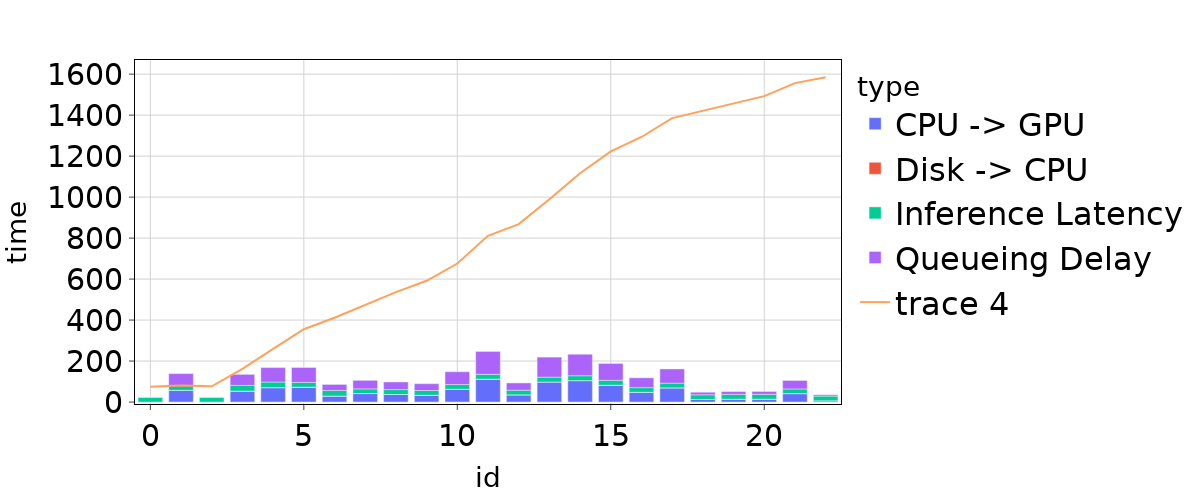
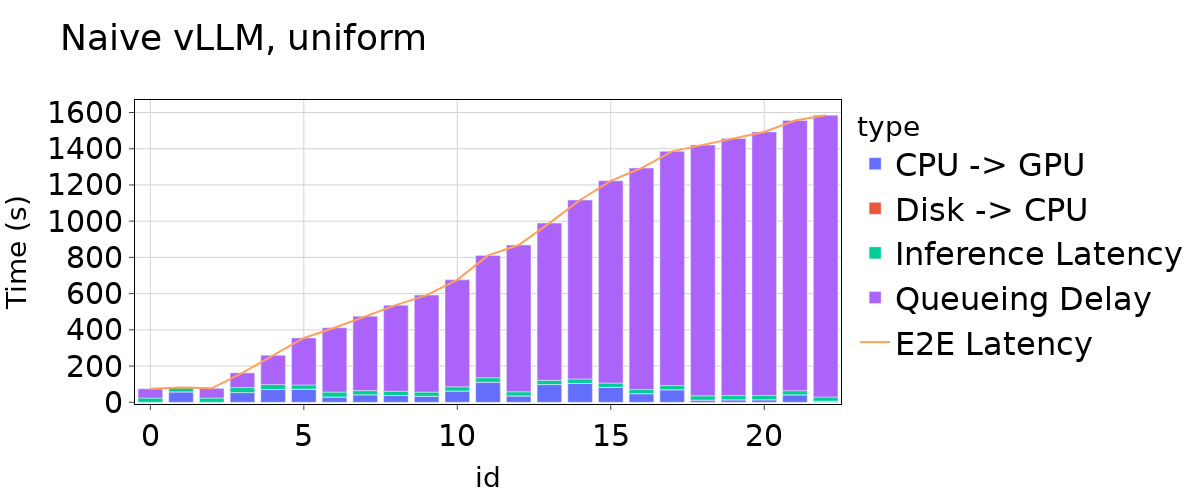
update

Changed region(s): [[0.0, 0.03, 0.9867, 0.81], [0.6475, 0.15, 0.6783, 0.18]]

diff --git a/.artifact/benchmarks/tools/trace/synthetic_generator.py b/.artifact/benchmarks/tools/trace/synthetic_generator.py
@@ -5,7 +5,7 @@ import datasets
 import numpy as np
 from loguru import logger
 from arrival import PoissonProcess
-
+from typing import Union
 import tiktoken
 enc = tiktoken.get_encoding("cl100k_base")
 
@@ -41,9 +41,11 @@ def generate_model_distribution(distribution, num_queries):
 def get_dialogs():
     trace = datasets.load_dataset("lmsys/chatbot_arena_conversations")["train"]
     all_dialogs = []
+    response_tokens = []
     for idx, item in enumerate(trace):
         all_dialogs.append(format_lmsys(item["conversation_a"][0]["content"]))
-    return all_dialogs
+        response_tokens.append(len(enc.encode(item["conversation_a"][1]['content'])))
+    return all_dialogs, response_tokens
 
 
 def generate_synthetic(args):
@@ -53,7 +55,7 @@ def generate_synthetic(args):
     )
     logger.info(f"Using Poisson arrival process, total_requests={len(poisson_ticks)}")
     traces_data = []
-    dialogs = get_dialogs()
+    dialogs, response_tokens = get_dialogs()
     models = generate_model_distribution(args.distribution, len(poisson_ticks))
     
     for idx in range(len(poisson_ticks)):
@@ -63,8 +65,8 @@ def generate_synthetic(args):
                 "prompt": dialogs[idx],
                 "timestamp": poisson_ticks[idx],
                 "model": models[idx],
-                "min_tokens": args.gen_tokens,
-                "max_tokens": args.gen_tokens,
+                "min_tokens": args.gen_tokens if args.gen_tokens != "auto" else response_tokens[idx],
+                "max_tokens": args.gen_tokens if args.gen_tokens != "auto" else response_tokens[idx],
             }
         )
     output_file = os.path.join(
@@ -85,7 +87,7 @@ if __name__ == "__main__":
     parser = argparse.ArgumentParser()
     parser.add_argument("--distribution", type=str, default="uniform")
     parser.add_argument("--output", type=str, default="")
-    parser.add_argument("--gen-tokens", type=int, default=512)
+    parser.add_argument("--gen-tokens", default=512)
     parser.add_argument("--arrival-rate", type=float, default=0)
     parser.add_argument("--duration", type=float, default=0)
     args = parser.parse_args()

diff --git a/.artifact/benchmarks/tools/plot/utils.py b/.artifact/benchmarks/tools/plot/utils.py
@@ -17,10 +17,16 @@ def extract_key_metadata(metadata):
     tp_size = metadata['sys_info']['tensor_parallel_size']
     is_swap = len(metadata['sys_info']['swap_modules']) > 0
     is_delta = len(metadata['sys_info']['delta_modules']) > 0
+    is_unoptimized_delta = False
+    if is_delta:
+        if "unopt" in metadata['sys_info']['delta_modules'][0]['local_path']:
+            is_unoptimized_delta = True
+    
     workload.update({
         "tp_size": tp_size,
         "is_swap": is_swap,
-        "is_delta": is_delta
+        "is_delta": is_delta,
+        "is_unoptimized_delta": is_unoptimized_delta,
     })
     return workload
 
@@ -75,17 +81,18 @@ def parse_swap(data):
         metric = x['response']['metrics'][0]
         
         e2e_latency = x['time_elapsed']
+
         inference_latency = metric['finished_time'] - metric['first_scheduled_time']
         
         first_token_latency = metric['first_token_time'] - metric['first_scheduled_time']
-        queuing_time = metric['first_scheduled_time'] - metric['arrival_time']
+         
         if metric['cpu_loading_time'] is None:
             cpu_loading_time = 0
         if metric['gpu_loading_time'] is None:
             gpu_loading_time = 0
         else:
             gpu_loading_time = metric['gpu_loading_time'] - metric['arrival_time']
-        
+        queuing_time = e2e_latency - inference_latency - gpu_loading_time
         results.append({
             "id": id,
             "model": x['response']['model'],
@@ -129,4 +136,11 @@ def parse_data(input_file):
     elif key_metadata['is_swap']:
         results = parse_swap(data)
     return key_metadata, results
-    
+
+def get_title(key_metadata):
+    if key_metadata['is_swap']:
+        return f"Naive vLLM, {key_metadata['distribution']}"
+    if key_metadata['is_delta'] and key_metadata['is_unoptimized_delta']:
+        return f"vLLM + Delta, {key_metadata['distribution']}"
+    if key_metadata['is_delta'] and not key_metadata['is_unoptimized_delta']:
+        return f"vLLM + Delta + Optimized I/O, {key_metadata['distribution']}"

diff --git a/.artifact/benchmarks/tools/plot/plot_latency_per_request.py b/.artifact/benchmarks/tools/plot/plot_latency_per_request.py
@@ -2,12 +2,14 @@ import os
 import argparse
 import pandas as pd
 from dstool.plot.style import set_font, set_plotly_theme
-from utils import parse_data
+from utils import parse_data, get_title
 import plotly.express as px
 import plotly.graph_objects as go
+
 def plot(args):
     print(args)
     metadata, data = parse_data(args.input)
+    title = get_title(metadata)
     filename = args.input.split('/')[-1].removesuffix('.jsonl')
     except_e2e = [x for x in data if x['type'] != 'E2E Latency']
     e2e_latency = [x for x in data if x['type'] == 'E2E Latency']
@@ -16,13 +18,16 @@ def plot(args):
     
     print("df ready")
     print(df)
-    fig = px.bar(df, x='id', y='time', color='type')
+    fig = px.bar(df, x='id', y='time', color='type', title=title)
     fig.add_trace(
         go.Scatter(
             x=e2e_df.id,
             y=e2e_df.time,
+            mode='lines',
+            name='E2E Latency',
         )
     )
+    fig.update_yaxes(title_text="Time (s)")
     set_font(fig)
     set_plotly_theme(fig)
     fig.write_image(os.path.join(args.output, f"{filename}.png"), width=1200)

diff --git a/.artifact/benchmarks/tools/plot/plot_all_latency.py b/.artifact/benchmarks/tools/plot/plot_all_latency.py
@@ -1,0 +1,5 @@
+import os
+files = [x for x in os.listdir(".artifact/benchmarks/results/") if x.endswith(".jsonl")]
+
+for filename in files:
+    os.system(f"python .artifact/benchmarks/tools/plot/plot_latency_per_request.py --output .artifact/benchmarks/results/figures --input .artifact/benchmarks/results/{filename}")
